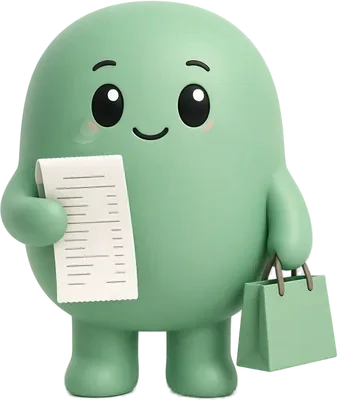
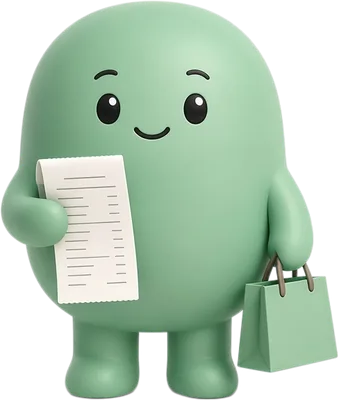
v5.3: new mascots (no blush), clean cut-outs; cache v5.3

diff --git a/sw.js b/sw.js
@@ -1,5 +1,5 @@
 // Zip demo service worker: precache app shell + demo samples; network-first for app files, cache-first for vendor libs.
-const V = 'zip-pages-v5.2';
+const V = 'zip-pages-v5.3';
 // Moteurs auto-hébergés (~20 Mo) : mis en cache en arrière-plan après l'installation, pour importer hors ligne.
 const LIBS = ['vendor/pdfjs/pdf.min.mjs', 'vendor/pdfjs/pdf.worker.min.mjs', 'vendor/tesseract/tesseract.min.js', 'vendor/tesseract/worker.min.js', 'vendor/tesseract/core/tesseract-core-simd-lstm.wasm.js', 'vendor/tesseract/core/tesseract-core-lstm.wasm.js', 'vendor/tesseract/lang/fra.traineddata.gz', 'vendor/opencv/opencv.js'];
 const PRECACHE = ["./", "index.html", "app.css", "app.js", "engine.js", "store.js", "scan.js", "chips.js", "logo.svg", "manifest.webmanifest", "icons/apple-touch-icon.png", "icons/favicon.svg", "icons/icon-192.png", "icons/icon-512.png", "icons/icon-maskable-512.png", "fonts/caveat-latin.woff2", "fonts/jakarta-latin.woff2", "m/admin.webp", "m/assurance.webp", "m/banque.webp", "m/factures.webp", "m/hero.webp", "m/logement.webp", "m/sante.webp", "m/sport.webp", "m/success.webp", "m/travail.webp", "m/vehicule.webp", "m/voyages.webp", "samples/01.pdf", "samples/01.thumb.jpg", "samples/02.pdf", "samples/02.thumb.jpg", "samples/03.pdf", "samples/03.thumb.jpg", "samples/04.pdf", "samples/04.thumb.jpg", "samples/05.pdf", "samples/05.thumb.jpg", "samples/06.pdf", "samples/06.thumb.jpg", "samples/07.pdf", "samples/07.thumb.jpg", "samples/08.png", "samples/08.scan.jpg", "samples/08.thumb.jpg", "samples/09.pdf", "samples/09.thumb.jpg", "samples/10.pdf", "samples/10.thumb.jpg", "samples/11.jpg", "samples/11.scan.jpg", "samples/11.thumb.jpg", "samples/12.pdf", "samples/12.scan.jpg", "samples/12.thumb.jpg", "samples/13.pdf", "samples/13.thumb.jpg", "samples/14.pdf", "samples/14.thumb.jpg", "samples/15.pdf", "samples/15.thumb.jpg", "samples/seed.json"];
